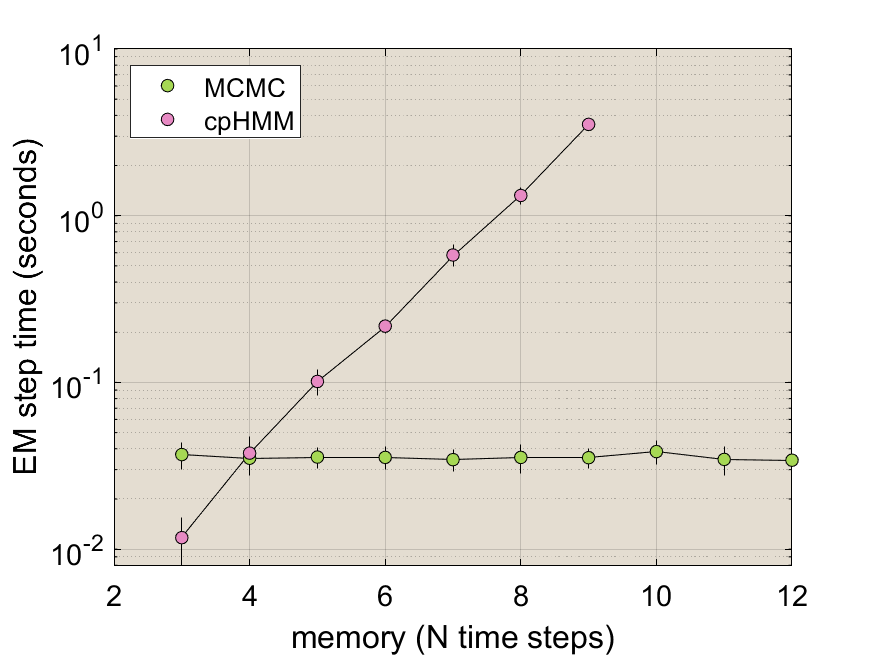
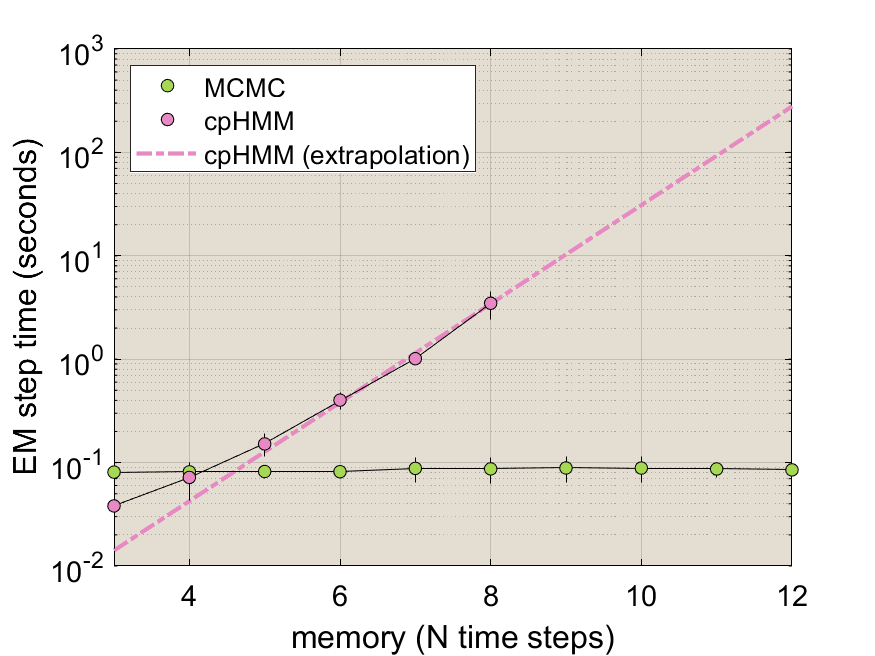
Fixed noise levels to be closer to cpHMM validation

diff --git a/src/utilities/nsMCMC/ms2_pd_functions/generateSimulatedData.m b/src/utilities/nsMCMC/ms2_pd_functions/generateSimulatedData.m
@@ -2,7 +2,7 @@ function trueParams = generateSimulatedData(trueParams)
     
     % calculate MS2 convolution kernel
     trueParams.alpha = trueParams.alpha_frac*trueParams.nSteps;
-    coeff_MS2 = ms2_loading_coeff_frac(trueParams.alpha, trueParams.nSteps, 12)';
+%     coeff_MS2 = ms2_loading_coeff_frac(trueParams.alpha, trueParams.nSteps, 12)';
     
     % calculate scaled noise
 %     f_mean = (trueParams.pi0'*trueParams.v)*sum(coeff_MS2);   

diff --git a/src/utilities/nsMCMC/initialization/setParamsBasic3state.m b/src/utilities/nsMCMC/initialization/setParamsBasic3state.m
@@ -11,7 +11,7 @@ trueParams.R = [-0.0200    0.0210         0;
                       0    0.0120   -0.0700]; %NL: from appendix table S2 in Lammers 2020
 trueParams.A = expm(trueParams.R*trueParams.tres);
 trueParams.v = [0, 2, 4]';
-trueParams.sigma = 0.5;
+trueParams.sigma = 1.5;
 [V, D] = eig(trueParams.A);
 [~, mi] = max(real(diag(D)));
 trueParams.pi0 = V(:,mi)/sum(V(:,mi));

diff --git a/src/utilities/nsMCMC/initialization/setParamsBasic2state.m b/src/utilities/nsMCMC/initialization/setParamsBasic2state.m
@@ -8,7 +8,7 @@ trueParams.discrete_data_flag = true;
 trueParams.R = [-.02, .05 ; .02 -.05];
 trueParams.A = expm(trueParams.R*trueParams.tres);
 trueParams.v = [0, 4]';
-trueParams.sigma = 0.4;
+trueParams.sigma = 1.5;
 [V, D] = eig(trueParams.A);
 [~, mi] = max(real(diag(D)));
 trueParams.pi0 = V(:,mi)/sum(V(:,mi));

diff --git a/src/figure_scripts/mcmc_validation.m b/src/figure_scripts/mcmc_validation.m
@@ -14,7 +14,7 @@ resultsPath = 'C:\Users\nlamm\Dropbox (Personal)\hhmm_MCMC_data\mcmc_validation_
 % specify type of inference to show
 nSteps = 7;
 n_traces = 25;
-n_reps = 1;
+n_reps = 2;
 nStates = 3;
 discrete_data_flag_vec = [0 1];
 master_struct = struct;
